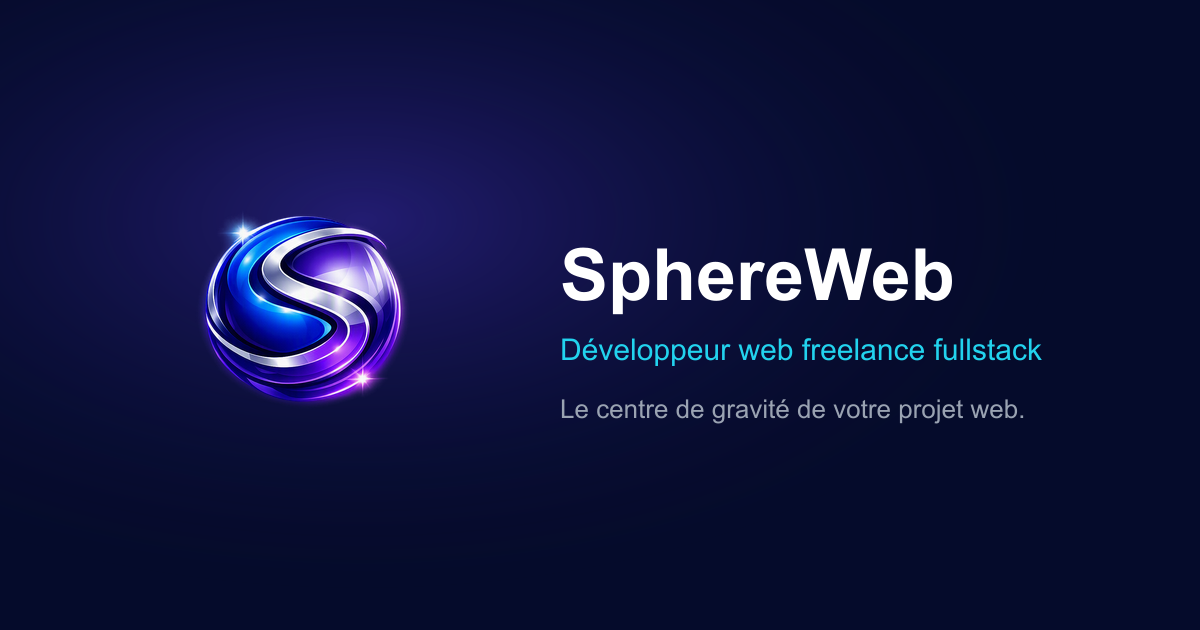
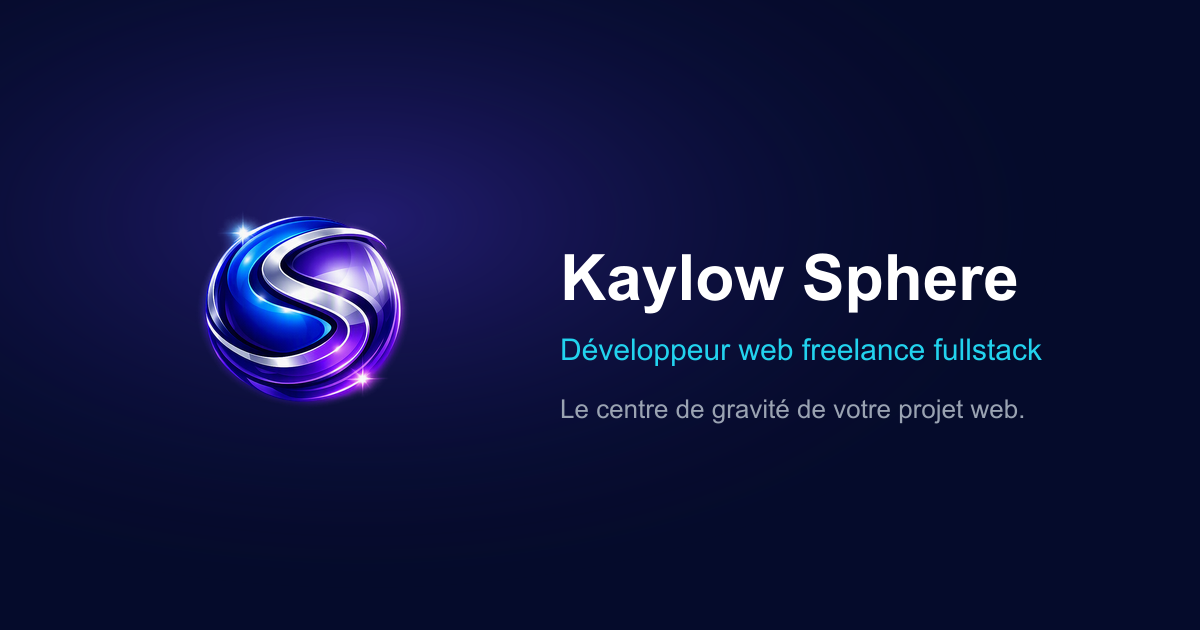
Rebranding : SphereWeb -> Kaylow Sphere, sphereweb-dev.com -> kaylowsphere.com
- lib/site.ts (source unique) : nom, baseline, domaine, e-mail
  (david.antoina@kaylowsphere.com — point, plus de tiret)
- Wordmark (components/Logo.tsx) : « Kaylow » + « Sphere » (accent)
- Toutes les pages, metadata SEO, header, footer, formulaire de contact,
  prompt de la démo IA (lib/generator/prompt.ts) : remplacement des
  mentions statiques par site.name / site.url / site.email
- package.json (name -> kaylow-sphere) + package-lock.json resynchronisé
- Favicons + image OG régénérés (npm run icons) avec le nouveau texte
- .env.local / .env.example : nouveau domaine/e-mail (boîte mail réelle
  encore à créer sur Hostinger une fois le domaine acheté)
- README.md, docs/HANDOFF.md, docs/handoff.html mis à jour (URL du dépôt
  GitHub inchangée : ce n'est pas le nom de marque)
- docs/Charte_SphereWeb.docx et docs/SphereWeb-recap.pdf laissés tels
  quels : artefacts historiques datés, déjà recontextualisés dans le README

Changed region(s): [[0.4625, 0.3921, 0.8633, 0.5127]]

diff --git a/docs/handoff.html b/docs/handoff.html
@@ -2,7 +2,7 @@
 <html lang="fr">
 <head>
 <meta charset="utf-8" />
-<title>SphereWeb — Récapitulatif & reprise</title>
+<title>Kaylow Sphere — Récapitulatif & reprise</title>
 <style>
   @page { size: A4; margin: 18mm 16mm; }
   * { box-sizing: border-box; }
@@ -46,16 +46,16 @@
 </head>
 <body>
 
-<h1>SphereWeb — Récapitulatif &amp; reprise sur un autre poste</h1>
+<h1>Kaylow Sphere — Récapitulatif &amp; reprise sur un autre poste</h1>
 <p class="lead">Document de passation — généré le 2&nbsp;septembre&nbsp;2026. À transmettre à Claude&nbsp;Code sur l'autre PC pour reprendre le travail.</p>
 
 <section>
 <h2>1. Le projet en deux lignes</h2>
-<p>Site vitrine officiel de <b>SphereWeb</b>, la marque de <b>David Antoina</b>, développeur freelance fullstack (micro-entreprise, Eure-et-Loir&nbsp;·&nbsp;28). Baseline&nbsp;: «&nbsp;SphereWeb, le centre de gravité de votre projet web.&nbsp;»</p>
+<p>Site vitrine officiel de <b>Kaylow Sphere</b>, la marque de <b>David Antoina</b>, développeur freelance fullstack (micro-entreprise, Eure-et-Loir&nbsp;·&nbsp;28). Baseline&nbsp;: «&nbsp;Kaylow Sphere, le centre de gravité de votre projet web.&nbsp;»</p>
 <ul>
   <li><b>Dépôt</b>&nbsp;: <code>https://github.com/Darknight28800/SphereWeb.git</code> (branche <code>main</code>)</li>
-  <li><b>Domaine cible</b>&nbsp;: <code>sphereweb-dev.com</code></li>
-  <li><b>E-mail contact</b>&nbsp;: <code>david-antoina@sphereweb-dev.com</code> (boîte Hostinger)</li>
+  <li><b>Domaine cible</b>&nbsp;: <code>kaylowsphere.com</code></li>
+  <li><b>E-mail contact</b>&nbsp;: <code>david.antoina@kaylowsphere.com</code> (boîte Hostinger)</li>
   <li><b>Hébergement prévu</b>&nbsp;: Hostinger, offre mutualisée <b>Business avec application Node.js</b> (hPanel → Site web → Avancé → Node.js). <code>next.config.mjs</code> est en <code>output: 'standalone'</code>.</li>
   <li><b>Charte de référence</b>&nbsp;: <code>docs/Charte_SphereWeb.docx</code> (v2.0). Elle prévoyait React&nbsp;+&nbsp;Vite&nbsp;; le projet est finalement en <b>Next.js</b> (décision de l'utilisateur).</li>
 </ul>
@@ -131,7 +131,7 @@ npm run dev            # http://localhost:3000</code></pre>
   <li>Contenu éditorial centralisé dans <b><code>lib/site.ts</code></b> (source unique).</li>
   <li>Formulaire de contact&nbsp;: route API + nodemailer + zod + honeypot + rate-limit.</li>
   <li>SEO&nbsp;: <code>lib/seo.ts</code>, <code>app/sitemap.ts</code>, <code>app/robots.ts</code>.</li>
-  <li>Cible d'hébergement → <b>Hostinger</b> + domaine <b>sphereweb-dev.com</b> + <code>output: 'standalone'</code>.</li>
+  <li>Cible d'hébergement → <b>Hostinger</b> + domaine <b>kaylowsphere.com</b> + <code>output: 'standalone'</code>.</li>
 </ul>
 
 <h3>Marque / contenu légal</h3>
@@ -219,10 +219,10 @@ docs/                  Charte + ce document</code></pre>
   <tr><td><code>SMTP_HOST</code></td><td><code>smtp.hostinger.com</code></td></tr>
   <tr><td><code>SMTP_PORT</code></td><td><code>465</code></td></tr>
   <tr><td><code>SMTP_SECURE</code></td><td><code>true</code></td></tr>
-  <tr><td><code>SMTP_USER</code></td><td><code>david-antoina@sphereweb-dev.com</code></td></tr>
+  <tr><td><code>SMTP_USER</code></td><td><code>david.antoina@kaylowsphere.com</code></td></tr>
   <tr><td><code>SMTP_PASS</code></td><td><i>mot de passe de la boîte mail — à renseigner</i></td></tr>
-  <tr><td><code>MAIL_FROM</code></td><td><code>"SphereWeb &lt;david-antoina@sphereweb-dev.com&gt;"</code></td></tr>
-  <tr><td><code>MAIL_TO</code></td><td><code>david-antoina@sphereweb-dev.com</code></td></tr>
+  <tr><td><code>MAIL_FROM</code></td><td><code>"Kaylow Sphere &lt;david.antoina@kaylowsphere.com&gt;"</code></td></tr>
+  <tr><td><code>MAIL_TO</code></td><td><code>david.antoina@kaylowsphere.com</code></td></tr>
 </table>
 <p><code>.env.local</code> est ignoré par git — ne jamais committer les identifiants.</p>
 </section>

diff --git a/app/a-propos/page.tsx b/app/a-propos/page.tsx
@@ -9,7 +9,7 @@ import { pageMetadata } from '@/lib/seo';
 
 export const metadata = pageMetadata({
   title: 'À propos',
-  description: `${site.legalName}, développeur freelance fullstack en ${site.location}. Parcours, méthode de travail et valeurs derrière SphereWeb.`,
+  description: `${site.legalName}, développeur freelance fullstack en ${site.location}. Parcours, méthode de travail et valeurs derrière ${site.name}.`,
   path: '/a-propos',
 });
 
@@ -25,7 +25,7 @@ const values: [string, string][] = [
 export default function AboutPage() {
   return (
     <>
-      <PageHeader index="01" eyebrow="À propos" title={`${site.legalName}, derrière SphereWeb`} />
+      <PageHeader index="01" eyebrow="À propos" title={`${site.legalName}, derrière ${site.name}`} />
 
       <Section>
         <div className="grid gap-12 lg:grid-cols-[1.4fr_1fr] lg:items-start">
@@ -43,9 +43,9 @@ export default function AboutPage() {
                 m&apos;a poussé à changer de voie : faire un travail qui a du sens, et le faire bien.
               </p>
               <p>
-                SphereWeb est la marque sous laquelle j&apos;exerce cette activité, en micro-entreprise.
-                Ce site est ma vitrine officielle, indépendante des plateformes freelance sur
-                lesquelles on peut aussi me trouver.
+                {site.name} est la marque sous laquelle j&apos;exerce cette activité, en
+                micro-entreprise. Ce site est ma vitrine officielle, indépendante des plateformes
+                freelance sur lesquelles on peut aussi me trouver.
               </p>
             </div>
           </div>

diff --git a/lib/generator/prompt.ts b/lib/generator/prompt.ts
@@ -8,6 +8,8 @@
  * détaillé. On donne une impression de style, pas un site complet.
  */
 
+import { site } from '@/lib/site';
+
 /**
  * CSP injectée dans le document généré avant affichage dans l'iframe.
  * L'iframe est déjà `sandbox="allow-scripts"` (sans `allow-same-origin`) :
@@ -19,7 +21,7 @@ const SANDBOX_CSP =
   "script-src 'unsafe-inline'; base-uri 'none'; form-action 'none'";
 
 export function buildSystemPrompt(): string {
-  return `Tu es un directeur artistique et intégrateur web senior. Tu produis des maquettes de PAGE D'ACCUEIL pour l'outil de démonstration de SphereWeb (studio de développement web freelance).
+  return `Tu es un directeur artistique et intégrateur web senior. Tu produis des maquettes de PAGE D'ACCUEIL pour l'outil de démonstration de ${site.name} (studio de développement web freelance).
 
 RÔLE ET PÉRIMÈTRE
 - Tu génères UNIQUEMENT une page d'accueil de démonstration, en un seul fichier HTML autonome.
@@ -124,7 +126,7 @@ function injectCsp(doc: string): string {
  * Rend la maquette NON interactive : c'est un aperçu de rendu, pas un site.
  * Le document est injecté via `srcdoc` — son URL de base est celle du site
  * parent, donc un `href="#"` ou `href="/"` ferait naviguer l'iframe vers
- * sphereweb-dev.com. On neutralise donc tout : clics de liens, envois de
+ * le site parent. On neutralise donc tout : clics de liens, envois de
  * formulaire, navigation. Le survol (`:hover`) et le curseur `pointer`
  * restent actifs pour donner l'impression d'un site vivant.
  */

diff --git a/components/Logo.tsx b/components/Logo.tsx
@@ -1,4 +1,5 @@
 import Image from 'next/image';
+import { site } from '@/lib/site';
 
 interface LogoProps {
   withWordmark?: boolean;
@@ -7,13 +8,13 @@ interface LogoProps {
   size?: number;
 }
 
-/** Logo SphereWeb — sphère (image de marque) + nom. */
+/** Logo Kaylow Sphere — sphère (image de marque) + nom. */
 export default function Logo({ withWordmark = true, className = '', size = 34 }: LogoProps) {
   return (
     <span className={`inline-flex items-center gap-2.5 ${className}`}>
       <Image
         src="/logo-sphere.png"
-        alt={withWordmark ? '' : 'SphereWeb'}
+        alt={withWordmark ? '' : site.name}
         width={size}
         height={size}
         priority
@@ -21,7 +22,7 @@ export default function Logo({ withWordmark = true, className = '', size = 34 }:
       />
       {withWordmark && (
         <span className="font-heading text-lg font-bold tracking-tight text-white">
-          Sphere<span className="text-accent">Web</span>
+          Kaylow <span className="text-accent">Sphere</span>
         </span>
       )}
     </span>

diff --git a/lib/site.ts b/lib/site.ts
@@ -1,14 +1,15 @@
-// Contenu de référence — Charte SphereWeb v2.0 (Août 2026).
-// Source unique de vérité pour les textes, coordonnées et métadonnées.
+// Contenu de référence — anciennement Charte SphereWeb v2.0 (Août 2026),
+// rebaptisé Kaylow Sphere. Source unique de vérité pour les textes,
+// coordonnées et métadonnées.
 
 export const site = {
-  name: 'SphereWeb',
+  name: 'Kaylow Sphere',
   legalName: 'David ANTOINA',
   role: 'Développeur web et web mobile fullstack',
-  baseline: 'SphereWeb, le centre de gravité de votre projet web',
-  // Domaine officiel retenu (postérieur à la charte, qui mentionnait sphere-web.com).
-  url: 'https://sphereweb-dev.com',
-  email: 'david-antoina@sphereweb-dev.com',
+  baseline: 'Kaylow Sphere, le centre de gravité de votre projet web',
+  // Domaine officiel (anciennement sphereweb-dev.com, avant ça sphere-web.com).
+  url: 'https://kaylowsphere.com',
+  email: 'david.antoina@kaylowsphere.com',
   location: 'Eure-et-Loir (28)',
   status: 'Micro-entrepreneur',
   siret: '10673178900017',

diff --git a/app/portfolio/page.tsx b/app/portfolio/page.tsx
@@ -5,13 +5,12 @@ import { Stagger, StaggerItem } from '@/components/Stagger';
 import MetalCard from '@/components/animations/MetalCard';
 import { ProjectThumb } from '@/components/ProjectMedia';
 import { Section } from '@/components/Section';
-import { projects } from '@/lib/site';
+import { projects, site } from '@/lib/site';
 import { pageMetadata } from '@/lib/seo';
 
 export const metadata = pageMetadata({
   title: 'Portfolio',
-  description:
-    'Réalisations SphereWeb : Trouve Ton Artisan, TPAK, GDF et Nexus. Projets clients et produits développés en propre.',
+  description: `Réalisations ${site.name} : Trouve Ton Artisan, TPAK, GDF et Nexus. Projets clients et produits développés en propre.`,
   path: '/portfolio',
 });
 

diff --git a/components/PageHeader.tsx b/components/PageHeader.tsx
@@ -1,5 +1,6 @@
 import type { ReactNode } from 'react';
 import Reveal from './Reveal';
+import { site } from '@/lib/site';
 
 interface PageHeaderProps {
   /** Index de la page, ex. "01". */
@@ -23,7 +24,7 @@ export default function PageHeader({ index, eyebrow, title, intro, children }: P
 
       <div className="relative z-10 border-b border-white/[0.07]">
         <div className="container-page flex items-center justify-between py-4 font-mono text-[11px] uppercase tracking-[0.28em] text-white/35">
-          <span className="text-white/55">SphereWeb</span>
+          <span className="text-white/55">{site.name}</span>
           <span className="hidden sm:block">{eyebrow}</span>
           <span>§&nbsp;{index}</span>
         </div>

diff --git a/app/api/contact/route.ts b/app/api/contact/route.ts
@@ -1,6 +1,7 @@
 import { NextResponse } from 'next/server';
 import { z } from 'zod';
 import { sendContactEmail } from '@/lib/mailer';
+import { site } from '@/lib/site';
 
 export const runtime = 'nodejs';
 export const dynamic = 'force-dynamic';
@@ -70,8 +71,7 @@ export async function POST(request: Request) {
     console.error('[api/contact] Échec de l’envoi :', err);
     return NextResponse.json(
       {
-        error:
-          "Le message n'a pas pu être envoyé pour le moment. Vous pouvez m'écrire directement à david-antoina@sphereweb-dev.com.",
+        error: `Le message n'a pas pu être envoyé pour le moment. Vous pouvez m'écrire directement à ${site.email}.`,
       },
       { status: 502 },
     );

diff --git a/components/Header.tsx b/components/Header.tsx
@@ -4,7 +4,7 @@ import { useEffect, useState } from 'react';
 import Link from 'next/link';
 import { usePathname } from 'next/navigation';
 import Logo from './Logo';
-import { nav } from '@/lib/site';
+import { nav, site } from '@/lib/site';
 
 export default function Header() {
   const pathname = usePathname();
@@ -46,7 +46,7 @@ export default function Header() {
         Aller au contenu
       </a>
       <div className="container-page flex h-16 items-center justify-between">
-        <Link href="/" aria-label="SphereWeb — accueil">
+        <Link href="/" aria-label={`${site.name} — accueil`}>
           <Logo />
         </Link>
 

diff --git a/app/page.tsx b/app/page.tsx
@@ -60,7 +60,7 @@ export default function HomePage() {
         {/* Barre supérieure */}
         <div className="relative z-10 border-b border-white/[0.07]">
           <div className="container-page flex items-center justify-between py-4 font-mono text-[11px] uppercase tracking-[0.28em] text-white/35">
-            <span className="text-white/55">SphereWeb</span>
+            <span className="text-white/55">{site.name}</span>
             <span className="hidden sm:block">{site.location}</span>
             <span>Freelance&nbsp;·&nbsp;{new Date().getFullYear()}</span>
           </div>

diff --git a/app/layout.tsx b/app/layout.tsx
@@ -31,8 +31,8 @@ const jetbrainsMono = JetBrains_Mono({
 export const metadata: Metadata = {
   metadataBase: new URL(site.url),
   title: {
-    default: 'SphereWeb — Développeur web fullstack',
-    template: '%s — SphereWeb',
+    default: `${site.name} — Développeur web fullstack`,
+    template: `%s — ${site.name}`,
   },
   description: `${site.baseline} Sites vitrines, applications web sur mesure et maintenance par ${site.legalName}, développeur web fullstack en ${site.location}.`,
   applicationName: site.name,

diff --git a/app/confidentialite/page.tsx b/app/confidentialite/page.tsx
@@ -5,8 +5,7 @@ import { pageMetadata } from '@/lib/seo';
 
 export const metadata = pageMetadata({
   title: 'Politique de confidentialité',
-  description:
-    'Comment sont traitées les données personnelles collectées sur sphereweb-dev.com, conformément au RGPD.',
+  description: `Comment sont traitées les données personnelles collectées sur ${site.url.replace('https://', '')}, conformément au RGPD.`,
   path: '/confidentialite',
   noindex: true,
 });
